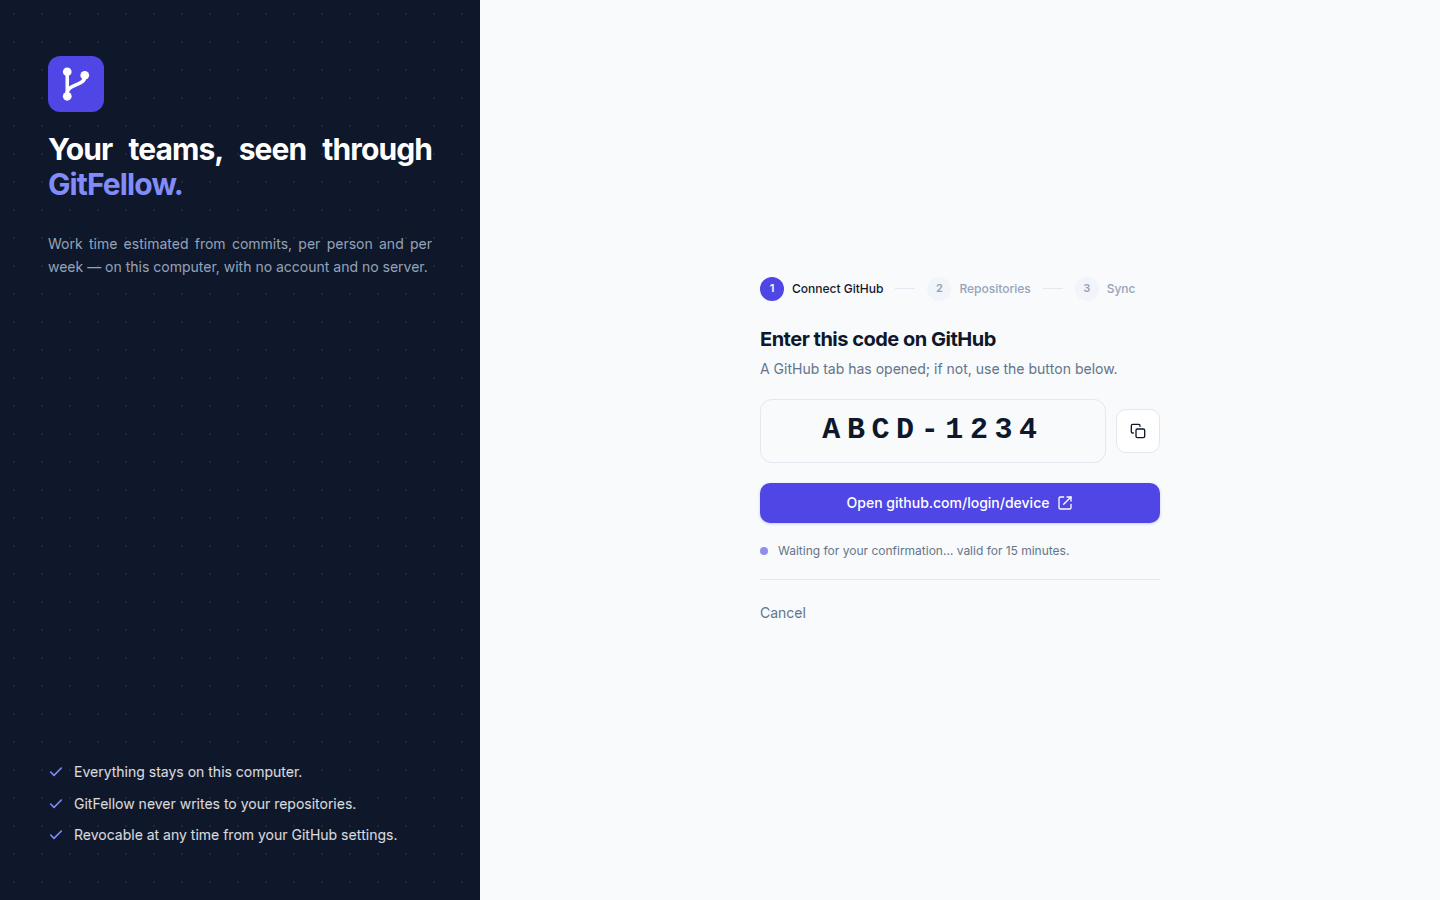
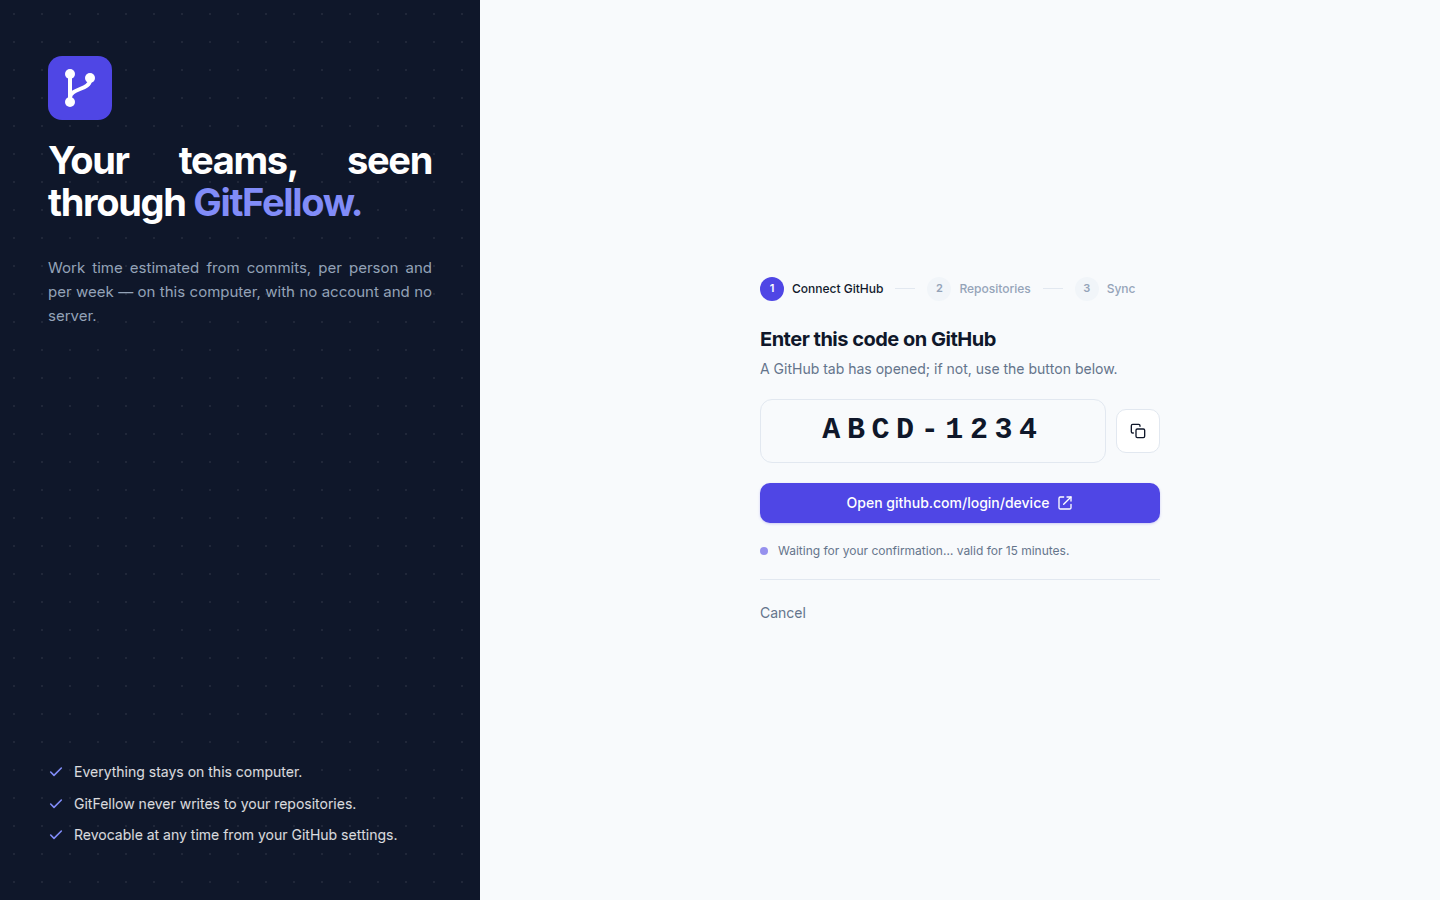
Assistant : le panneau à son échelle, les textes lisibles
Titre 30 → 38 px, logo 56 → 64, accroche 14 → 15. 38 px est le plafond
pour ce panneau de 480 : mesuré, l'anglais casse en trois lignes dès 40,
avec « through » seul au milieu.

Les textes secondaires de l'assistant passent du gris #94a3b8 au
#64748b : sur le fond clair, le premier ne donnait que 2,45 : 1 pour du
texte de 12 px, sous le seuil lisible de 4,5. Le second donne 4,55 et
reste discret. La note sous le bouton, l'aide du jeton, la description
des dépôts, le rappel de la date de suivi et la progression de la
synchronisation étaient tous concernés.

L'accroche du panneau accepte la césure : justifiée dans 384 px, le
français y écartait franchement les mots.

Claude-Session: https://claude.ai/code/session_01STUNUM5TqyfuURKzmXqGVv

Changed region(s): [[0.0312, 0.0622, 0.3125, 0.3733]]

diff --git a/src/components/setup/ChooseRepos.tsx b/src/components/setup/ChooseRepos.tsx
@@ -48,10 +48,10 @@ export function ChooseRepos({ repos, tracked, defaultSince, loadError }: { repos
       />
 
       <div className="max-h-[50vh] overflow-y-auto rounded-xl border border-line">
-        {groups.length === 0 ? <p className="p-4 text-sm text-muted">{r.empty}</p> : null}
+        {groups.length === 0 ? <p className="p-4 text-sm text-ink-2">{r.empty}</p> : null}
         {groups.map(([owner, list]) => (
           <div key={owner}>
-            <div className="sticky top-0 border-b border-line bg-bg px-3 py-1.5 text-[11px] font-semibold tracking-wide text-muted uppercase">
+            <div className="sticky top-0 border-b border-line bg-bg px-3 py-1.5 text-[11px] font-semibold tracking-wide text-ink-2 uppercase">
               {owner}
             </div>
             <ul>
@@ -70,7 +70,7 @@ export function ChooseRepos({ repos, tracked, defaultSince, loadError }: { repos
                       />
                       <span className="min-w-0 flex-1 truncate">
                         <span className={checked ? "font-medium text-ink" : "text-ink"}>{repo.name}</span>
-                        {repo.description ? <span className="ml-2 text-xs text-muted">{repo.description}</span> : null}
+                        {repo.description ? <span className="ml-2 text-xs text-ink-2">{repo.description}</span> : null}
                       </span>
                       {repo.private ? <Badge>{r.private}</Badge> : null}
                       {repo.archived ? <Badge>{r.archived}</Badge> : null}
@@ -89,7 +89,7 @@ export function ChooseRepos({ repos, tracked, defaultSince, loadError }: { repos
             {r.trackedSince}
           </label>
           <input id="tracked_since" name="tracked_since" type="date" defaultValue={defaultSince} className={`${inputBase} h-10 w-[180px] px-3`} />
-          <span className="max-w-sm text-xs text-muted">{r.trackedSinceHint}</span>
+          <span className="max-w-sm text-xs text-ink-2">{r.trackedSinceHint}</span>
         </div>
         <div className="flex items-center gap-3">
           <span className="tnum text-sm text-ink-2">{n(r.selected, selected.size)}</span>

diff --git a/src/components/setup/SetupFrame.tsx b/src/components/setup/SetupFrame.tsx
@@ -26,12 +26,13 @@ export function SetupFrame({ step, children }: { step: SetupStep; children: Reac
           style={{ backgroundImage: "radial-gradient(#fff 1px, transparent 1px)", backgroundSize: "28px 28px" }}
         />
         <div className="relative flex flex-col gap-5">
-          <img src="/gitfellow-logo.svg" alt="" width={56} height={56} style={{ width: 56, height: 56 }} />
-          <h1 className="text-justify text-[26px] leading-[1.15] font-bold tracking-[-0.03em] md:text-3xl">
+          <img src="/gitfellow-logo.svg" alt="" width={64} height={64} style={{ width: 64, height: 64 }} />
+          {/* 38 px est le plafond ici : au-delà, l'anglais casse en trois lignes dans les 384 px du panneau. */}
+          <h1 className="text-justify text-[28px] leading-[1.1] font-bold tracking-[-0.035em] md:text-[38px]">
             {m.setup.headline} <span className="text-accent-dark">{m.setup.headlineBrand}</span>
           </h1>
           {/* Un peu d'air sous le titre : la phrase se lit comme une suite, pas comme un sous-titre collé. */}
-          <p className="mt-3 text-justify text-sm leading-relaxed text-muted">{m.setup.tagline}</p>
+          <p className="mt-3 text-justify text-[15px] leading-relaxed text-muted hyphens-auto">{m.setup.tagline}</p>
         </div>
         <ul className="relative flex flex-col gap-3">
           {guarantees.map((text) => (

diff --git a/src/components/setup/FirstSync.tsx b/src/components/setup/FirstSync.tsx
@@ -54,12 +54,12 @@ export function FirstSync() {
       <div className="flex flex-col gap-2">
         <div className="flex items-baseline justify-between gap-3">
           <span className="text-sm font-medium">{done ? t(s.done, { commits, repos: total - failed }) : s.title}</span>
-          {total > 0 ? <span className="tnum text-xs text-muted">{t(s.progress, { done: doneCount, total })}</span> : null}
+          {total > 0 ? <span className="tnum text-xs text-ink-2">{t(s.progress, { done: doneCount, total })}</span> : null}
         </div>
         <div className="h-2 w-full overflow-hidden rounded-full bg-track" role="progressbar" aria-valuemin={0} aria-valuemax={100} aria-valuenow={Math.round(ratio * 100)}>
           <div className="h-full rounded-full bg-data transition-[width] duration-500" style={{ width: `${Math.max(2, ratio * 100)}%` }} />
         </div>
-        {progress?.current ? <span className="text-xs text-muted">{t(s.current, { repo: progress.current })}</span> : null}
+        {progress?.current ? <span className="text-xs text-ink-2">{t(s.current, { repo: progress.current })}</span> : null}
       </div>
 
       {progress?.error ? <Notice kind="error">{progress.error}</Notice> : null}

diff --git a/src/components/setup/ConnectGitHub.tsx b/src/components/setup/ConnectGitHub.tsx
@@ -110,7 +110,7 @@ export function ConnectGitHub({ deviceFlow }: { deviceFlow: boolean }) {
             {phase.error ? g.retry : g.device}
           </button>
           {/* Justifiée sur la largeur du bouton : le bloc de texte a le même aplomb que lui. */}
-          <p className="w-full text-justify text-xs leading-relaxed text-muted">{g.codeNote}</p>
+          <p className="w-full text-justify text-xs leading-relaxed text-ink-2">{g.codeNote}</p>
         </>
       ) : (
         <>
@@ -189,7 +189,7 @@ function TokenForm({ withTitle }: { withTitle: boolean }) {
           {g.tokenButton}
         </button>
       </div>
-      <p className="text-xs leading-relaxed text-muted">{g.tokenHelp}</p>
+      <p className="text-xs leading-relaxed text-ink-2">{g.tokenHelp}</p>
       {state.error ? <Notice kind="error">{state.error}</Notice> : null}
     </form>
   );
